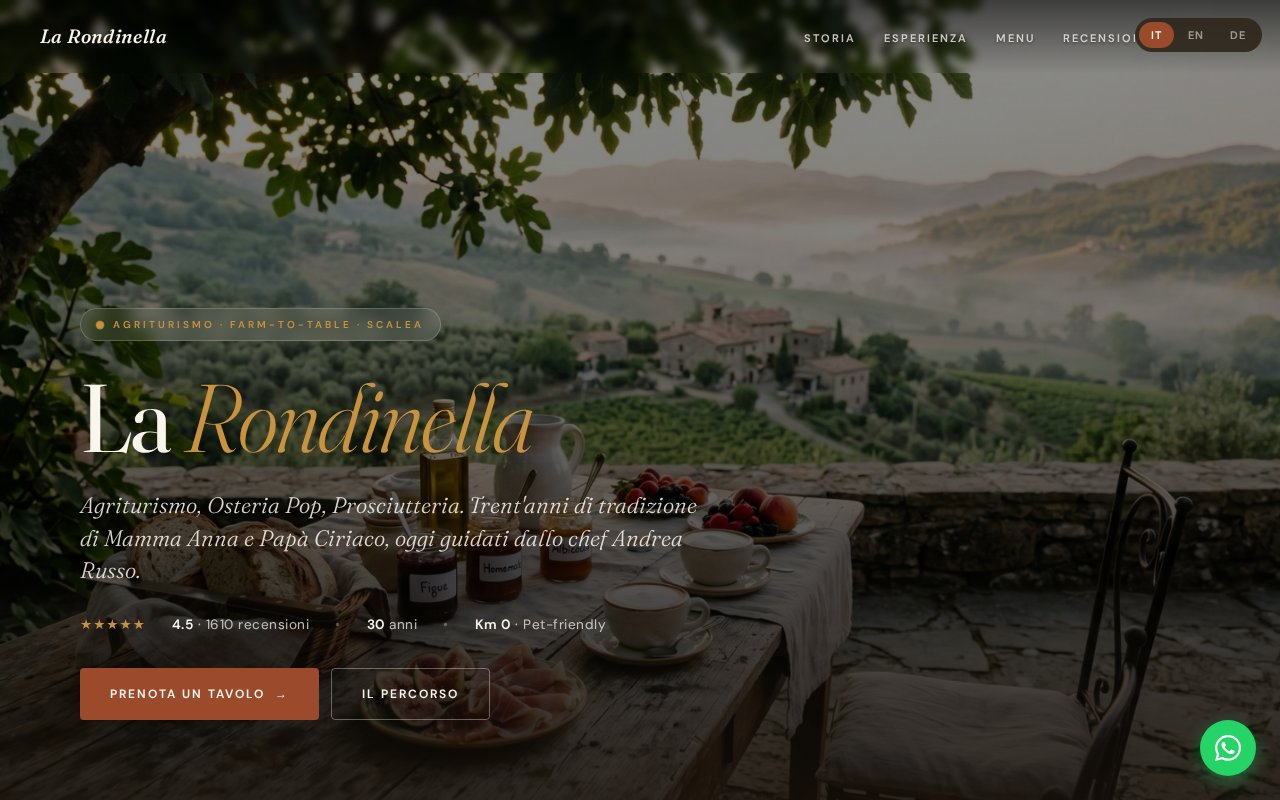
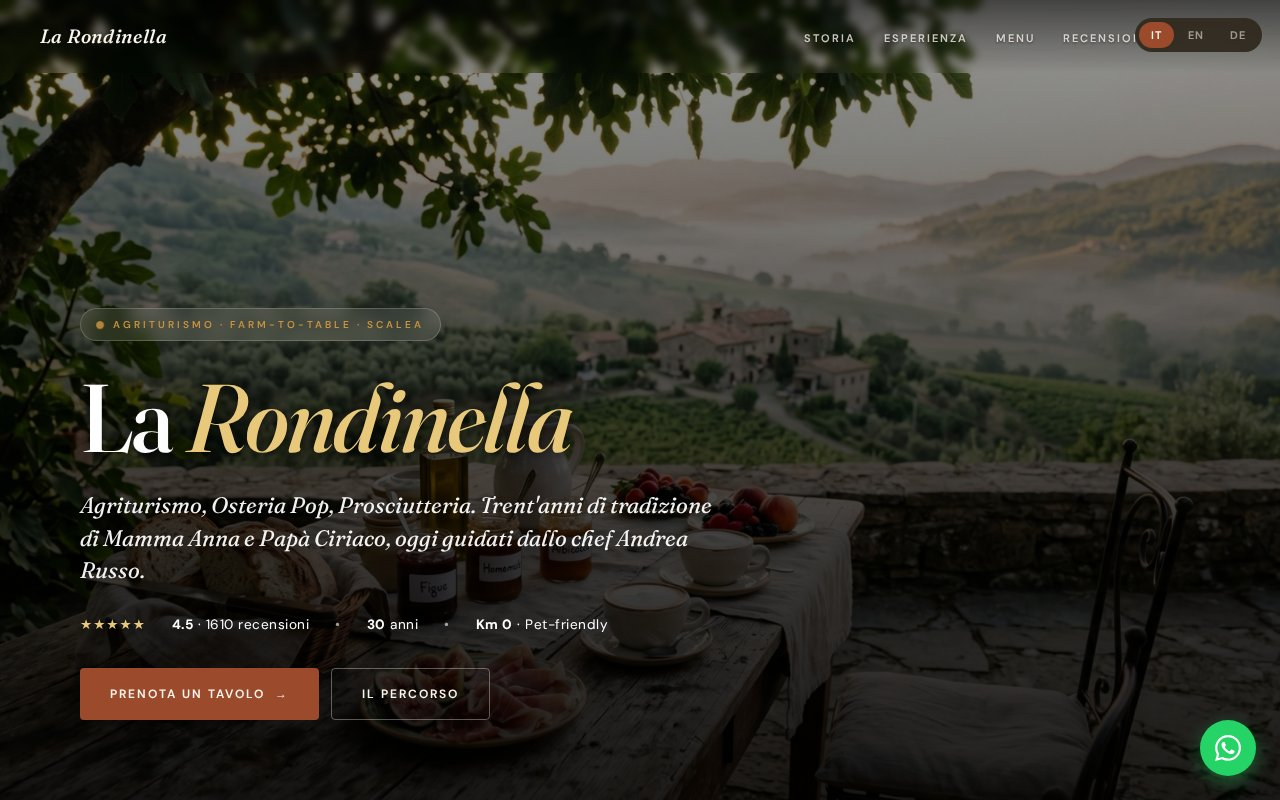
rondinella: darker hero overlay + pure white text + brighter gold

Changed region(s): [[0.0625, 0.4688, 0.5625, 0.75], [0.375, 0.75, 0.4688, 0.8125], [0.625, 0.625, 0.6562, 0.6562]]

diff --git a/rondinella/index.html b/rondinella/index.html
@@ -73,7 +73,7 @@ nav.scrolled .nav-logo{color:var(--cream)}
 /* === HERO === */
 .hero{position:relative;min-height:100vh;display:flex;align-items:flex-end;overflow:hidden;color:var(--cream);padding:180px 0 80px}
 .hero-bg{position:absolute;inset:0;background-image:url('rondinella-hero.jpg');background-size:cover;background-position:center;z-index:0;will-change:transform;animation:hero-zoom 2s cubic-bezier(.16,1,.3,1) forwards,kenburns 20s 2s ease-in-out infinite alternate}
-.hero-bg::after{content:'';position:absolute;inset:0;background:linear-gradient(180deg,rgba(0,0,0,.45) 0%,rgba(0,0,0,.5) 40%,rgba(0,0,0,.65) 70%,rgba(20,15,10,.85) 100%);z-index:1;pointer-events:none}
+.hero-bg::after{content:'';position:absolute;inset:0;background:linear-gradient(to bottom,rgba(0,0,0,.4) 0%,rgba(0,0,0,.55) 30%,rgba(0,0,0,.7) 60%,rgba(0,0,0,.85) 100%);z-index:1;pointer-events:none}
 @keyframes hero-zoom{from{transform:scale(1.12)}to{transform:scale(1)}}
 @keyframes kenburns{0%{transform:scale(1) translate3d(0,0,0)}100%{transform:scale(1.08) translate3d(-1%,-1%,0)}}
 @media(prefers-reduced-motion:reduce){.hero-bg{animation:none}}
@@ -82,13 +82,13 @@ nav.scrolled .nav-logo{color:var(--cream)}
 .hero-badge{display:inline-flex;align-items:center;gap:10px;padding:7px 16px;background:rgba(250,245,237,.12);backdrop-filter:blur(8px);border:1px solid rgba(250,245,237,.2);border-radius:100px;font-size:10px;font-weight:600;letter-spacing:3px;text-transform:uppercase;color:var(--gold);margin-bottom:24px}
 .hero-badge::before{content:'';width:6px;height:6px;border-radius:50%;background:var(--gold);animation:pulse 2.4s ease-in-out infinite}
 @keyframes pulse{0%,100%{opacity:.55;transform:scale(1)}50%{opacity:1;transform:scale(1.4)}}
-.hero h1{font-size:clamp(3rem,8vw,6rem);color:var(--cream);margin-bottom:18px;letter-spacing:-.02em;font-weight:400;max-width:900px}
-.hero h1 .italic{font-style:italic;color:var(--gold);font-weight:300}
-.hero-sub{font-family:'Fraunces',serif;font-style:italic;font-size:clamp(1.1rem,2.2vw,1.4rem);color:rgba(250,245,237,.88);margin-bottom:26px;font-weight:300;max-width:640px;line-height:1.45}
-.hero-meta{display:flex;gap:26px;flex-wrap:wrap;align-items:center;font-size:.85rem;color:rgba(250,245,237,.75);margin-bottom:32px;letter-spacing:.5px}
-.hero-meta strong{color:var(--cream);font-weight:600}
-.hero-meta .dot{opacity:.4}
-.hero-stars{color:var(--gold);letter-spacing:1px}
+.hero h1{font-size:clamp(3rem,8vw,6rem);color:#FFFFFF;margin-bottom:18px;letter-spacing:-.02em;font-weight:500;max-width:900px;text-shadow:0 4px 30px rgba(0,0,0,.7),0 2px 10px rgba(0,0,0,.5)}
+.hero h1 .italic{font-style:italic;color:#E8C87A;font-weight:500}
+.hero-sub{font-family:'Fraunces',serif;font-style:italic;font-size:clamp(1.1rem,2.2vw,1.4rem);color:rgba(255,255,255,.95);margin-bottom:26px;font-weight:400;max-width:640px;line-height:1.45;text-shadow:0 2px 15px rgba(0,0,0,.6)}
+.hero-meta{display:flex;gap:26px;flex-wrap:wrap;align-items:center;font-size:.85rem;color:#FFFFFF;margin-bottom:32px;letter-spacing:.5px;text-shadow:0 2px 15px rgba(0,0,0,.6)}
+.hero-meta strong{color:#FFFFFF;font-weight:700}
+.hero-meta .dot{opacity:.6}
+.hero-stars{color:#E8C87A;letter-spacing:1px}
 .hero-ctas{display:flex;gap:12px;flex-wrap:wrap}
 .btn{display:inline-flex;align-items:center;gap:10px;padding:15px 30px;font-family:'DM Sans',sans-serif;font-weight:600;font-size:12px;letter-spacing:2px;text-transform:uppercase;text-decoration:none;border-radius:4px;transition:all .3s;border:none;cursor:pointer}
 .btn-primary{background:var(--terra);color:var(--cream)}
